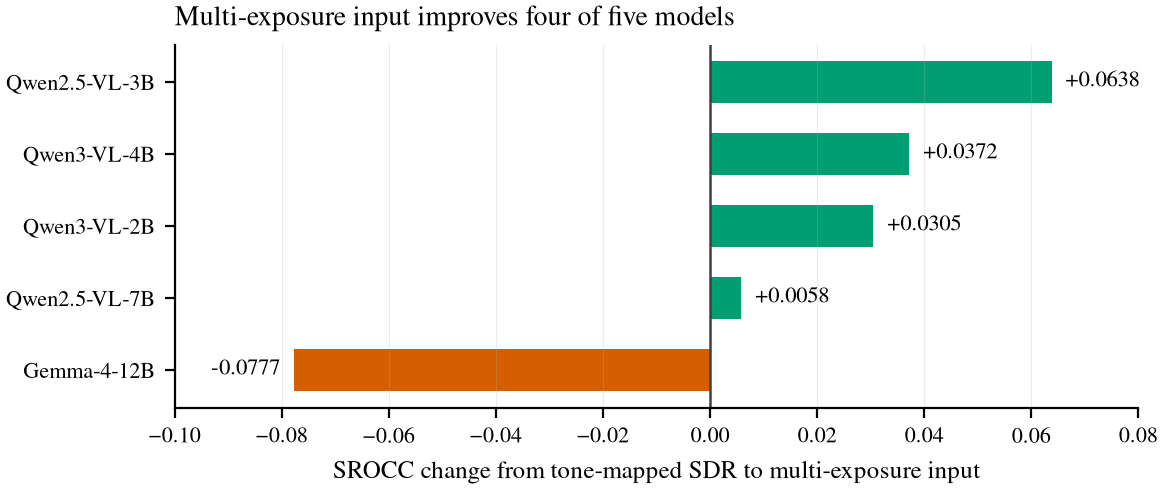
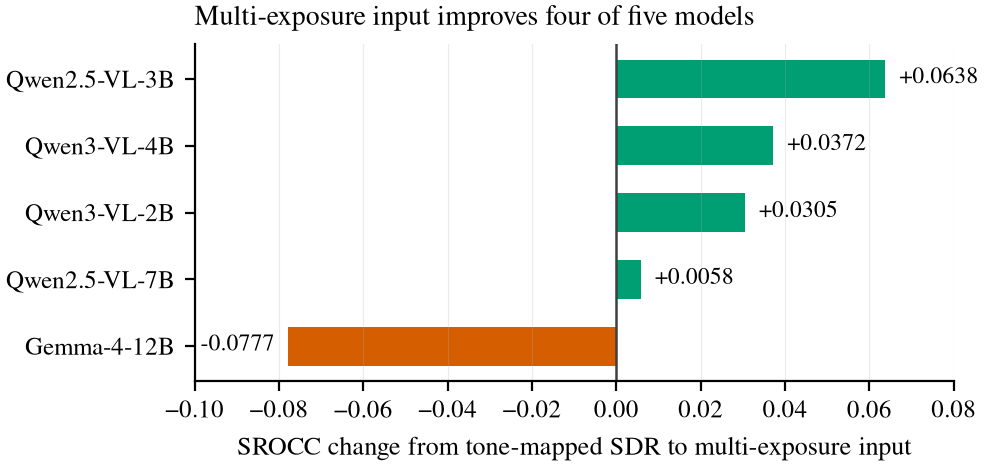
Fix responsive project page figures

diff --git a/docs/index.html b/docs/index.html
@@ -16,7 +16,7 @@
       <nav aria-label="Project links">
         <a href="https://arxiv.org/abs/TODO">Paper</a>
         <a href="https://github.com/shreshthsaini/BrightRate-LM">Code</a>
-        <a data-hf-models href="https://huggingface.co/shreshthsaini/brightrate-lm-7b-multiexposure">Models</a>
+        <a data-hf-models href="https://huggingface.co/shreshthsaini">Models</a>
         <a href="https://github.com/shreshthsaini/BrightVQ">BrightVQ</a>
         <a href="https://shreshthsaini.github.io/CHUG/">CHUG</a>
         <a href="https://shreshthsaini.github.io/Beyond8Bits/">Beyond8Bits</a>
@@ -30,25 +30,29 @@
 
     <section>
       <h2>Key figures</h2>
-      <figure class="wide">
-        <img src="assets/hero-pareto.png" alt="Accuracy, memory, and throughput comparisons for selected models">
-        <figcaption>BrightRate-LM gives the strongest measured accuracy among the selected models while retaining a 7B backbone.</figcaption>
-      </figure>
-      <div class="figure-grid">
+      <div class="figure-list">
         <figure>
-          <img src="assets/exposure-ladder.png" alt="SROCC change from SDR to multi-exposure input">
+          <div class="figure-media">
+            <img src="assets/hero-pareto.png" alt="Accuracy, memory, and throughput comparisons for selected models">
+          </div>
+          <figcaption>Accuracy, peak training memory, and inference throughput for the selected models.</figcaption>
+        </figure>
+        <figure>
+          <div class="figure-media">
+            <img src="assets/exposure-ladder.png" alt="SROCC change from SDR to multi-exposure input">
+          </div>
           <figcaption>Multi-exposure input improves four of five matched model and recipe pairs.</figcaption>
         </figure>
         <figure>
-          <img src="assets/family-scaling.png" alt="Zero-shot and supervised scaling across model families">
-          <figcaption>Supervised quality prediction does not improve monotonically with model size.</figcaption>
+          <div class="figure-media">
+            <img src="assets/training-regime.png" alt="Training loss by optimizer update and SROCC before and after training">
+          </div>
+          <figcaption>Representative runs reduce the training loss, but the held-out SROCC does not increase monotonically with model size.</figcaption>
         </figure>
         <figure>
-          <img src="assets/loss-curves.png" alt="Training loss curves for the studied model families">
-          <figcaption>The matched recipes converge, but lower training loss does not guarantee better held-out ranking.</figcaption>
-        </figure>
-        <figure>
-          <img src="assets/qualitative-output.png" alt="BrightRate-LM score, description, and reasoning example">
+          <div class="figure-media">
+            <img src="assets/qualitative-output.png" alt="BrightRate-LM accuracy and an example score, description, and reasoning output">
+          </div>
           <figcaption>The output interface pairs the numeric estimate with a short visual diagnosis.</figcaption>
         </figure>
       </div>
@@ -85,6 +89,36 @@
     <section>
       <h2>Data</h2>
       <p>Experiments use <a href="https://github.com/shreshthsaini/BrightVQ">BrightVQ</a> from <a href="https://openaccess.thecvf.com/content/WACV2026/papers/Saini_BrightRate_Quality_Assessment_for_User-Generated_HDR_Videos_WACV_2026_paper.pdf">BrightRate</a>.</p>
+    </section>
+
+    <section>
+      <h2>Models</h2>
+      <p>The <a href="https://huggingface.co/shreshthsaini/brightrate-lm-7b-multiexposure">multi-exposure 7B adapter</a> is the primary release. All adapters are available from the <a href="https://huggingface.co/shreshthsaini">Hugging Face profile</a>.</p>
+      <div class="table-wrap models-wrap">
+        <table class="models-table">
+          <thead>
+            <tr><th>Adapter</th><th>Input</th></tr>
+          </thead>
+          <tbody>
+            <tr><td><a href="https://huggingface.co/shreshthsaini/brightrate-lm-7b-multiexposure">brightrate-lm-7b-multiexposure</a></td><td>Multi-exposure, primary</td></tr>
+            <tr><td><a href="https://huggingface.co/shreshthsaini/brightrate-lm-7b-sdr">brightrate-lm-7b-sdr</a></td><td>Tone-mapped SDR</td></tr>
+            <tr><td><a href="https://huggingface.co/shreshthsaini/brightrate-study-gemma4-12b-multiexposure">brightrate-study-gemma4-12b-multiexposure</a></td><td>Multi-exposure</td></tr>
+            <tr><td><a href="https://huggingface.co/shreshthsaini/brightrate-study-gemma4-12b-native-pq">brightrate-study-gemma4-12b-native-pq</a></td><td>Native PQ</td></tr>
+            <tr><td><a href="https://huggingface.co/shreshthsaini/brightrate-study-gemma4-12b-sdr">brightrate-study-gemma4-12b-sdr</a></td><td>Tone-mapped SDR</td></tr>
+            <tr><td><a href="https://huggingface.co/shreshthsaini/brightrate-study-gemma4-26b-sdr">brightrate-study-gemma4-26b-sdr</a></td><td>Tone-mapped SDR</td></tr>
+            <tr><td><a href="https://huggingface.co/shreshthsaini/brightrate-study-gemma4-31b-sdr">brightrate-study-gemma4-31b-sdr</a></td><td>Tone-mapped SDR</td></tr>
+            <tr><td><a href="https://huggingface.co/shreshthsaini/brightrate-study-gemma4-e2b-sdr">brightrate-study-gemma4-e2b-sdr</a></td><td>Tone-mapped SDR</td></tr>
+            <tr><td><a href="https://huggingface.co/shreshthsaini/brightrate-study-gemma4-e4b-sdr">brightrate-study-gemma4-e4b-sdr</a></td><td>Tone-mapped SDR</td></tr>
+            <tr><td><a href="https://huggingface.co/shreshthsaini/brightrate-study-qwen25vl-3b-multiexposure">brightrate-study-qwen25vl-3b-multiexposure</a></td><td>Multi-exposure</td></tr>
+            <tr><td><a href="https://huggingface.co/shreshthsaini/brightrate-study-qwen25vl-3b-sdr">brightrate-study-qwen25vl-3b-sdr</a></td><td>Tone-mapped SDR</td></tr>
+            <tr><td><a href="https://huggingface.co/shreshthsaini/brightrate-study-qwen3vl-2b-multiexposure">brightrate-study-qwen3vl-2b-multiexposure</a></td><td>Multi-exposure</td></tr>
+            <tr><td><a href="https://huggingface.co/shreshthsaini/brightrate-study-qwen3vl-2b-sdr">brightrate-study-qwen3vl-2b-sdr</a></td><td>Tone-mapped SDR</td></tr>
+            <tr><td><a href="https://huggingface.co/shreshthsaini/brightrate-study-qwen3vl-4b-multiexposure">brightrate-study-qwen3vl-4b-multiexposure</a></td><td>Multi-exposure</td></tr>
+            <tr><td><a href="https://huggingface.co/shreshthsaini/brightrate-study-qwen3vl-4b-sdr">brightrate-study-qwen3vl-4b-sdr</a></td><td>Tone-mapped SDR</td></tr>
+            <tr><td><a href="https://huggingface.co/shreshthsaini/brightrate-study-qwen3vl-8b-sdr">brightrate-study-qwen3vl-8b-sdr</a></td><td>Tone-mapped SDR</td></tr>
+          </tbody>
+        </table>
+      </div>
     </section>
 
     <section>

diff --git a/docs/style.css b/docs/style.css
@@ -65,11 +65,28 @@ h2 {
 
 p { margin: 0 0 12px; }
 
-figure { margin: 0; }
+img {
+  max-width: 100%;
+  height: auto;
+}
+
+figure {
+  width: 100%;
+  max-width: 100%;
+  min-width: 0;
+  margin: 0;
+}
+
+.figure-media {
+  width: 100%;
+  max-width: 100%;
+  overflow-x: auto;
+}
 
 figure img {
   display: block;
   width: 100%;
+  max-width: 100%;
   height: auto;
   border: 1px solid var(--rule);
   background: white;
@@ -82,12 +99,10 @@ figcaption {
   line-height: 1.4;
 }
 
-.wide { margin-bottom: 28px; }
-
-.figure-grid {
+.figure-list {
   display: grid;
-  grid-template-columns: repeat(2, minmax(0, 1fr));
-  gap: 30px 24px;
+  grid-template-columns: minmax(0, 1fr);
+  gap: 32px;
 }
 
 .protocol {
@@ -116,6 +131,20 @@ th:nth-child(2), td:nth-child(2) { text-align: left; }
 
 thead { background: var(--soft); }
 
+.models-wrap { overflow-x: visible; }
+
+.models-table th,
+.models-table td {
+  text-align: left;
+  white-space: normal;
+  overflow-wrap: anywhere;
+}
+
+.models-table th:last-child,
+.models-table td:last-child {
+  width: 34%;
+}
+
 ul { margin: 0; padding-left: 24px; }
 li { margin: 8px 0; }
 
@@ -131,5 +160,4 @@ pre {
 @media (max-width: 700px) {
   body { font-size: 16px; }
   main { padding-top: 36px; }
-  .figure-grid { grid-template-columns: 1fr; }
 }

diff --git a/README.md b/README.md
@@ -2,7 +2,7 @@
 
 BrightRate-LM assesses the perceptual quality of user-generated HDR video from a multi-exposure frame stack. It returns a 0 to 100 score, a short description of visible defects, and reasoning for the score. This work extends BrightRate (WACV 2026) with a multimodal language model and a controlled study of HDR input representations.
 
-[Paper](https://arxiv.org/abs/TODO) | [Project page](https://shreshthsaini.github.io/BrightRate-LM/) | [Models](https://huggingface.co/shreshthsaini/brightrate-lm-7b-multiexposure) | [BrightRate paper](https://openaccess.thecvf.com/content/WACV2026/papers/Saini_BrightRate_Quality_Assessment_for_User-Generated_HDR_Videos_WACV_2026_paper.pdf) | [BrightVQ repository](https://github.com/shreshthsaini/BrightVQ) | [CHUG](https://shreshthsaini.github.io/CHUG/) | [Beyond8Bits](https://shreshthsaini.github.io/Beyond8Bits/)
+[Paper](https://arxiv.org/abs/TODO) | [Project page](https://shreshthsaini.github.io/BrightRate-LM/) | [Primary adapter](https://huggingface.co/shreshthsaini/brightrate-lm-7b-multiexposure) | [Models](https://huggingface.co/shreshthsaini) | [BrightRate paper](https://openaccess.thecvf.com/content/WACV2026/papers/Saini_BrightRate_Quality_Assessment_for_User-Generated_HDR_Videos_WACV_2026_paper.pdf) | [BrightVQ repository](https://github.com/shreshthsaini/BrightVQ) | [CHUG](https://shreshthsaini.github.io/CHUG/) | [Beyond8Bits](https://shreshthsaini.github.io/Beyond8Bits/)
 
 ## Results
 
